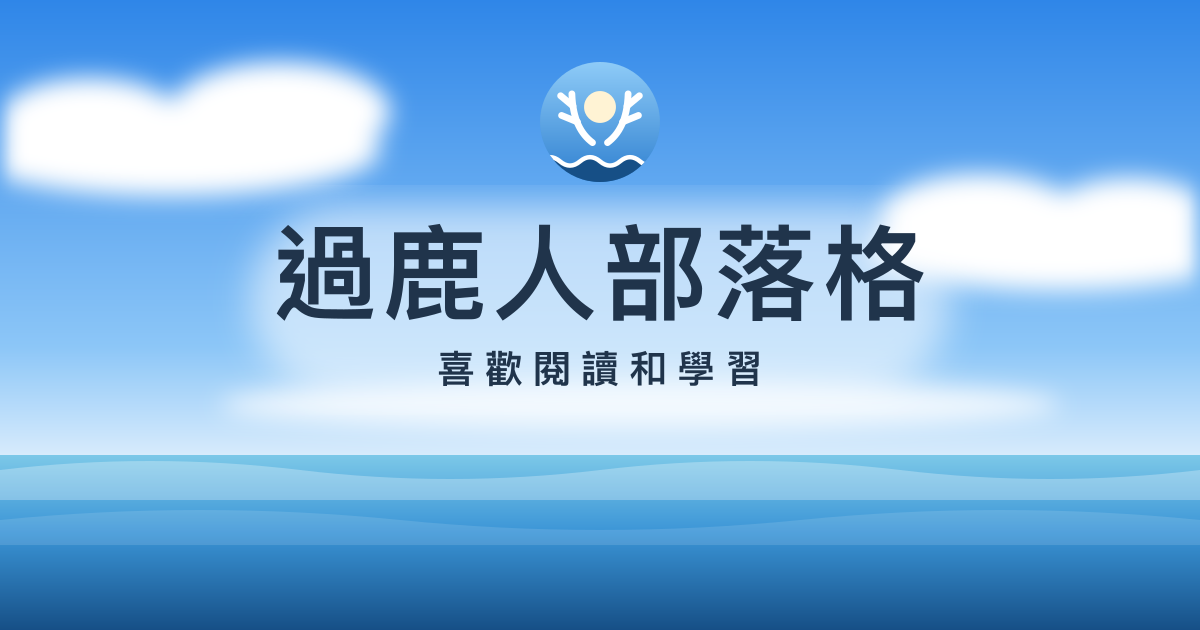
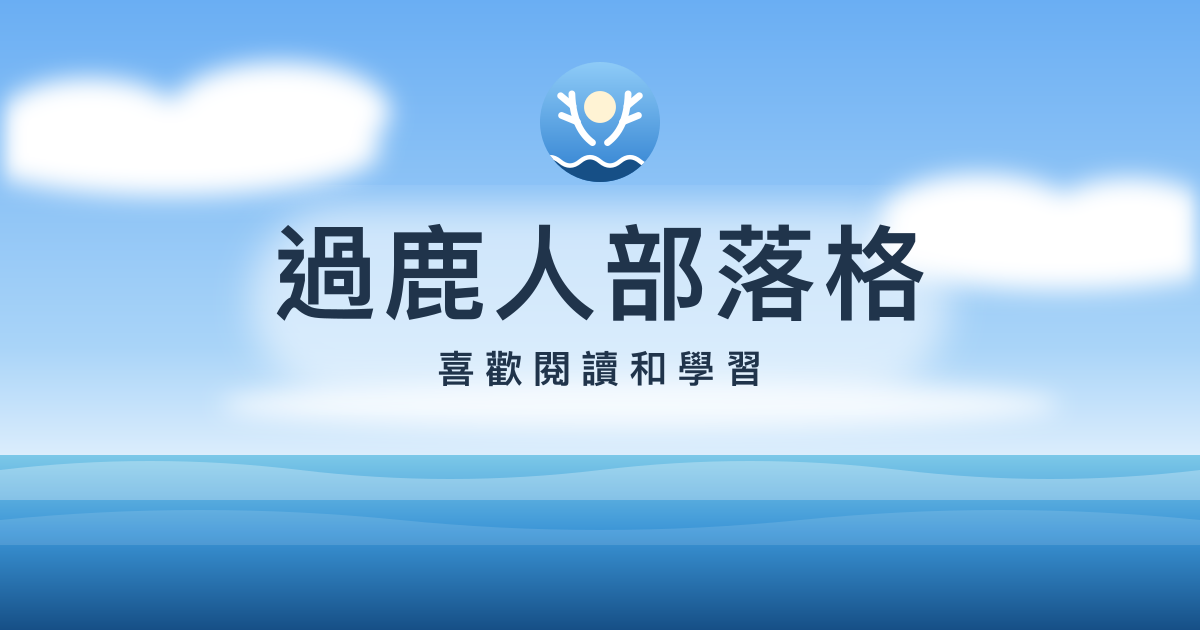
feat(ui): soften the sky blue and highlight bold text
The zenith blue was too saturated to sit behind text comfortably.
Bold in posts gets a pale highlighter stroke so key points stand out.

diff --git a/src/scripts/sky.frag.ts b/src/scripts/sky.frag.ts
@@ -1,4 +1,4 @@
-// A deep blue sky with cumulus clouds receding toward the horizon, plus thin cirrus streaks.
+// A soft blue sky with cumulus clouds receding toward the horizon, plus thin cirrus streaks.
 // Clouds are fbm noise on a plane overhead, seen through a real perspective camera, so they are
 // large at the top of the canvas and small and dense near the horizon at the bottom.
 export default /* glsl */ `
@@ -58,8 +58,8 @@ void main() {
   float e = rd.y;
 
   vec3 horizon = vec3(0.86, 0.94, 0.995);
-  vec3 mid = vec3(0.36, 0.69, 0.97);
-  vec3 zenith = vec3(0.11, 0.47, 0.90);
+  vec3 mid = vec3(0.56, 0.80, 0.985);
+  vec3 zenith = vec3(0.34, 0.66, 0.96);
   vec3 col = mix(horizon, mid, smoothstep(0.02, 0.38, e));
   col = mix(col, zenith, smoothstep(0.30, 0.85, e));
 
@@ -83,7 +83,7 @@ void main() {
   float toward = cumulus(q + sunDir.xz * 0.30, uTime);
   float lit = smoothstep(-0.10, 0.12, d - toward);
   float core = smoothstep(0.52, 0.74, d);
-  vec3 shade = mix(vec3(0.66, 0.78, 0.93), vec3(0.86, 0.92, 0.985), far);
+  vec3 shade = mix(vec3(0.74, 0.84, 0.95), vec3(0.88, 0.93, 0.985), far);
   vec3 cloud = mix(shade, vec3(1.0), clamp(lit * 0.75 + 0.35 - core * 0.18, 0.0, 1.0));
   cloud = mix(cloud, horizon, (1.0 - far) * 0.6);
   col = mix(col, cloud, cover * mix(0.55, 1.0, far) * smoothstep(0.04, 0.14, e));

diff --git a/src/styles/tokens.css b/src/styles/tokens.css
@@ -15,7 +15,7 @@
   --accent: #2f80d0;
   --link: #1f6cb8;
 
-  --sky-top: #4a9af0;
+  --sky-top: #7ab6f4;
   --sky-low: #e3f1fd;
   --sun: #fff3d4;
   --sea-light: #7cc8e8;
